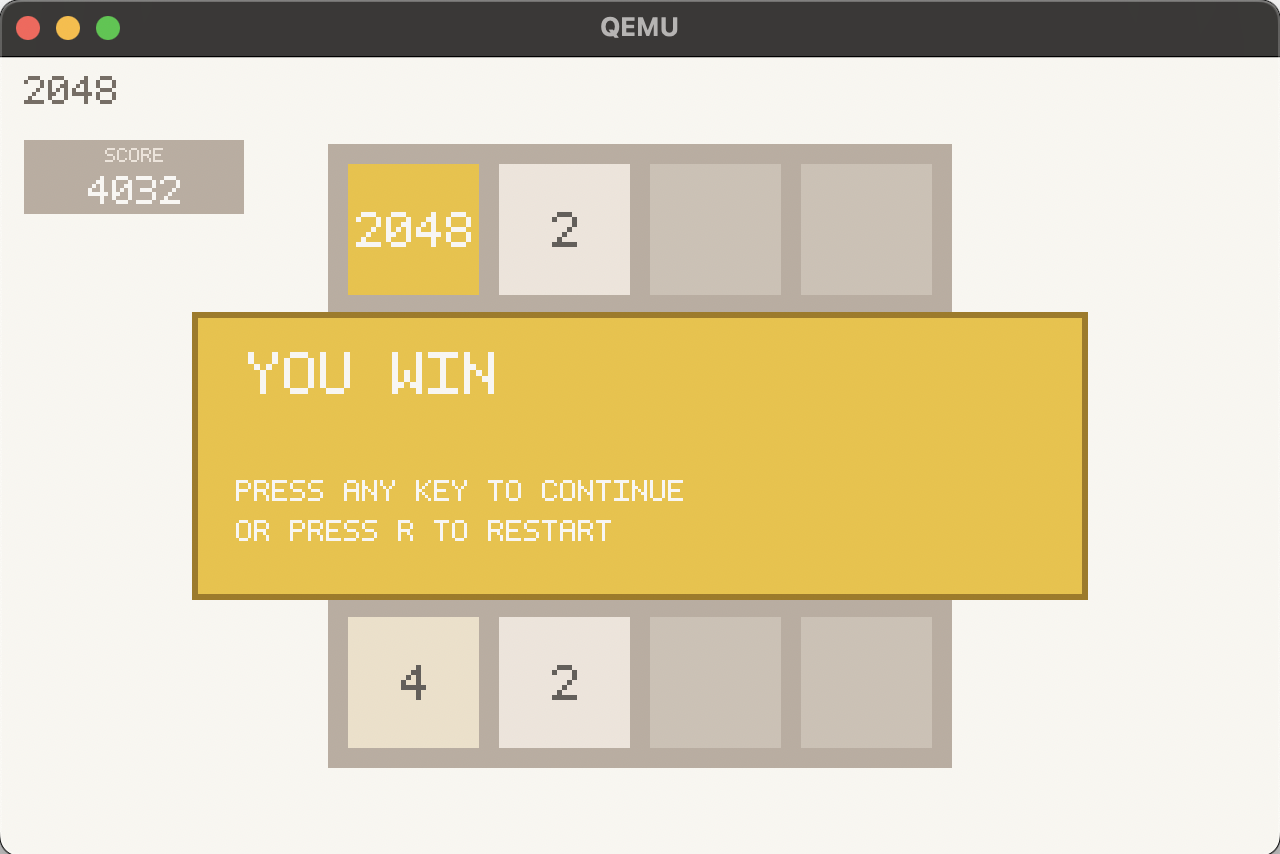
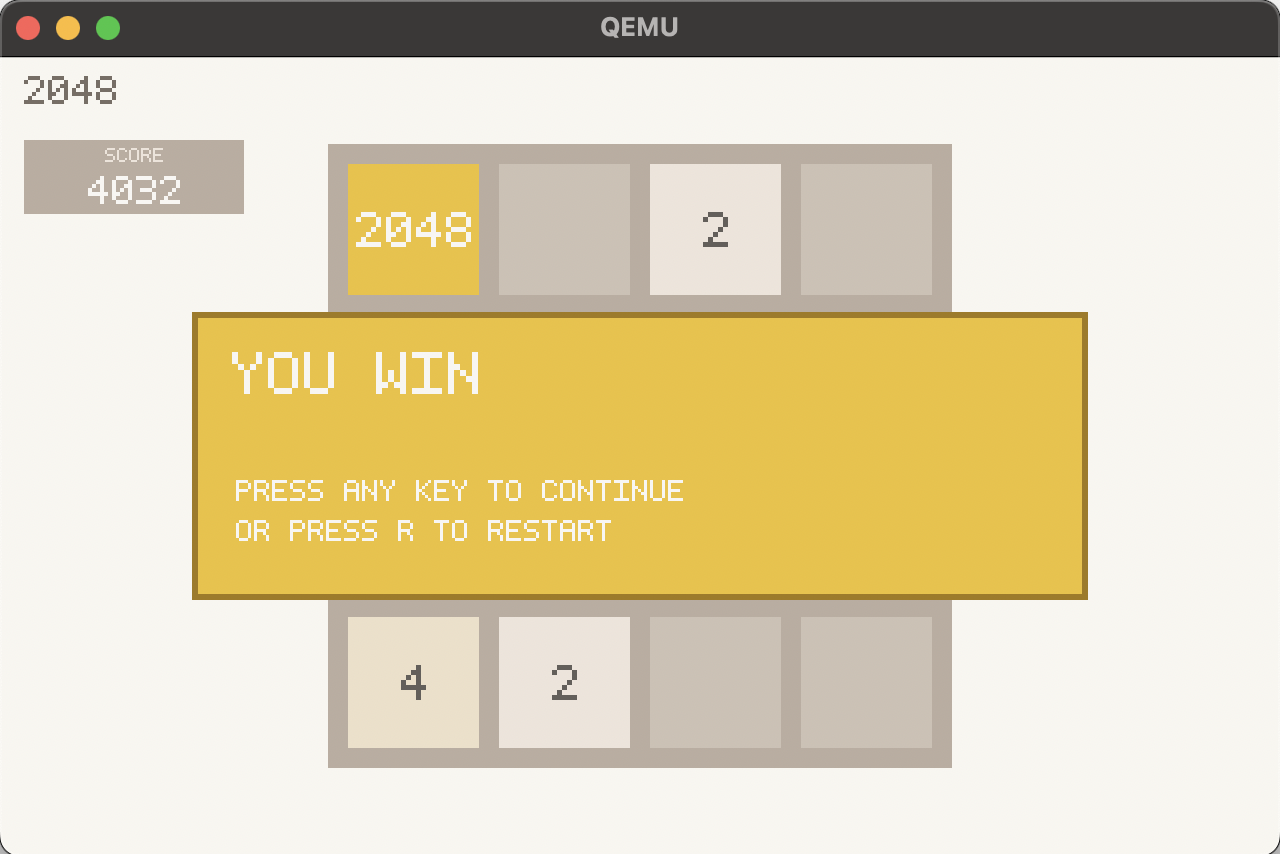
Update win screen

Changed region(s): [[0.375, 0.1827, 0.625, 0.3653], [0.1875, 0.3958, 0.4062, 0.4871]]

diff --git a/src/ui/ui_board_scene.c b/src/ui/ui_board_scene.c
@@ -63,7 +63,7 @@ static VOID draw_win_overlay(UiContext *ctx) {
 
     ui_fill_rect(ctx, px, py, pw, ph, UI_COLOR_ARROW_OUTLINE);
     ui_fill_rect(ctx, px + 6, py + 6, pw - 12, ph - 12, UI_COLOR_WIN);
-    ui_draw_text(ctx, L"YOU WIN!", px + 56, py + 40, 6, UI_COLOR_TEXT_LIGHT);
+    ui_draw_text(ctx, L"YOU WIN!", px + 40, py + 40, 6, UI_COLOR_TEXT_LIGHT);
     ui_draw_text(ctx, L"PRESS ANY KEY TO CONTINUE", px + 44, py + ph - 120, 3, UI_COLOR_TEXT_LIGHT);
     ui_draw_text(ctx, L"OR PRESS R TO RESTART", px + 44, py + ph - 80, 3, UI_COLOR_TEXT_LIGHT);
 }
